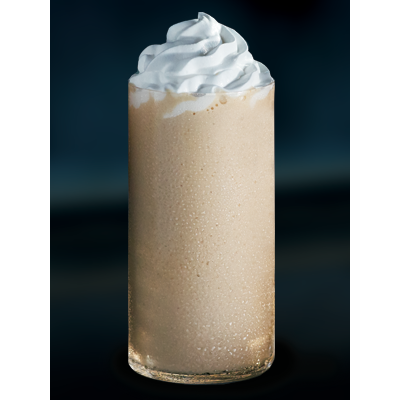
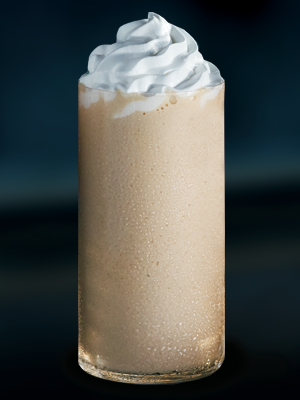
Resize image for menu

diff --git a/css/style.scss b/css/style.scss
@@ -295,6 +295,16 @@ main {
   flex-direction: column;
 }
 
+.tabs {
+  .content {
+    display: flex;
+    flex-wrap: wrap;
+    figure {
+      margin: 2%;
+      text-align:center;
+    }
+  }
+}
 
 /*MEDIA QUERIES*/
 
